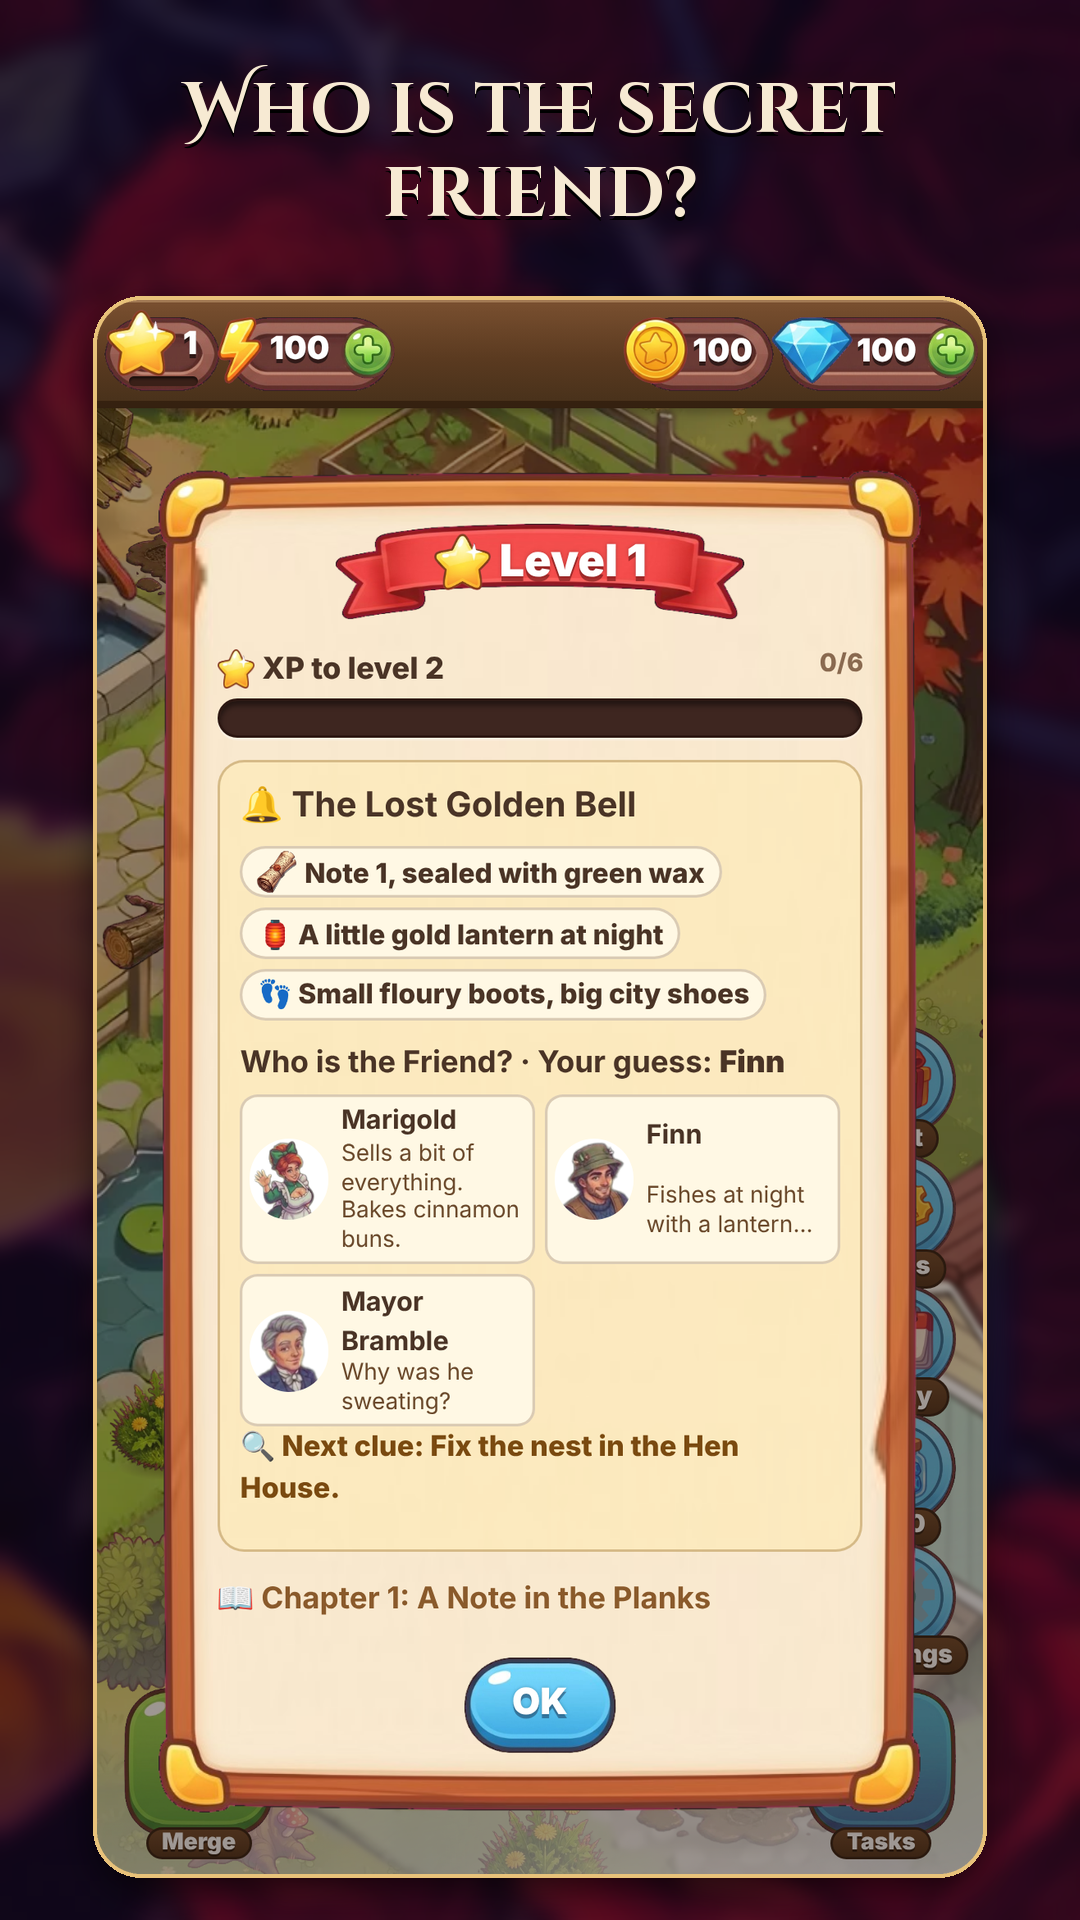
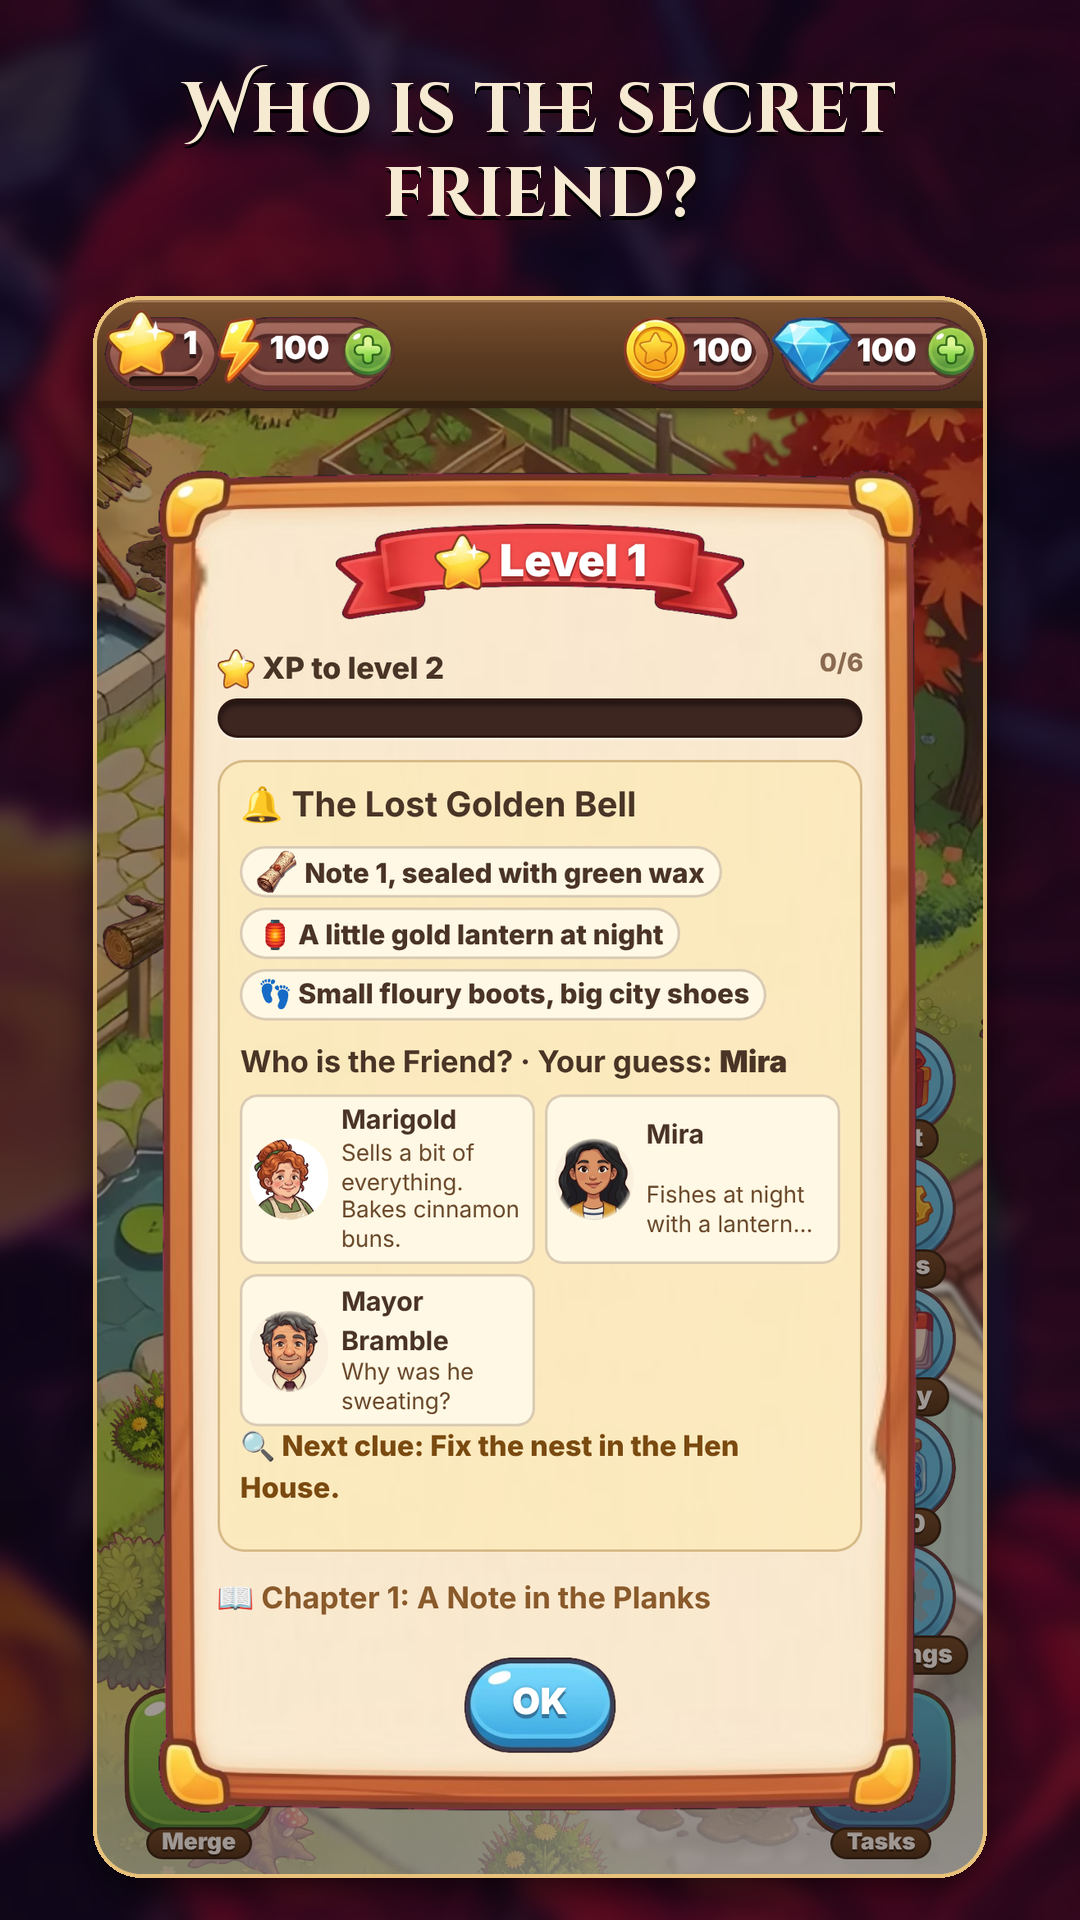
Google Play screenshots retaken from the new game
The six phone screenshots still showed the old cast and names (Hattie, Ruby,
Finn, Poppy), the old bright crates and the old town painting. Now: the new
cast on the order cards and in the clue tracker, the calm board, Clara at work
on the farm, and the town square on the map with everyone at their doors.
Same captions and frame.

Claude-Session: https://claude.ai/code/session_01897nNPNNgbcBnjh2hA5vTu

diff --git a/tools/make_store_screens.py b/tools/make_store_screens.py
@@ -2,7 +2,8 @@
 # of the icon art.
 #   node tools/store_screenshots.mjs http://localhost:8765/ <raw_dir>      (the game served locally)
 #   python3 tools/make_store_screens.py <raw_dir> app/store/screenshots <fonts_dir>
-# <fonts_dir> holds CinzelDecorative-Bold.ttf.ttf from github.com/google/fonts (OFL).
+# <fonts_dir> holds CinzelDecorative-Bold.ttf.ttf from github.com/google/fonts (OFL); the same font is the .ttf
+# that fonts.googleapis.com/css2?family=Cinzel+Decorative:wght@700 links to, for an old browser's user agent.
 import sys, os
 import numpy as np
 from PIL import Image, ImageDraw, ImageFont, ImageFilter

diff --git a/ASSET_LIST.md b/ASSET_LIST.md
@@ -696,7 +696,7 @@ scratched out, cut from `assets/raw/icon_rose_girl.jpg` by `tools/make_icons.py`
 | ✅ | Android launcher icons (round, square, adaptive layer) | `app/android/app/src/main/res/mipmap-*/ic_launcher*.png` |
 | ✅ | Google Play icon, 512×512 | `app/store/play-icon-512.png` |
 | ✅ | Google Play feature graphic, 1024×500 (`tools/make_store_graphic.py`) | `app/store/feature-graphic-1024x500.png` |
-| ✅ | Google Play phone screenshots, 6 at 1080×1920 (`tools/store_screenshots.mjs`, `tools/make_store_screens.py`) | `app/store/screenshots/` |
+| ✅ | Google Play phone screenshots, 6 at 1080×1920 (`tools/store_screenshots.mjs`, `tools/make_store_screens.py`), retaken with the new cast, board and town | `app/store/screenshots/` |
 
 ## Not used by the game
 
